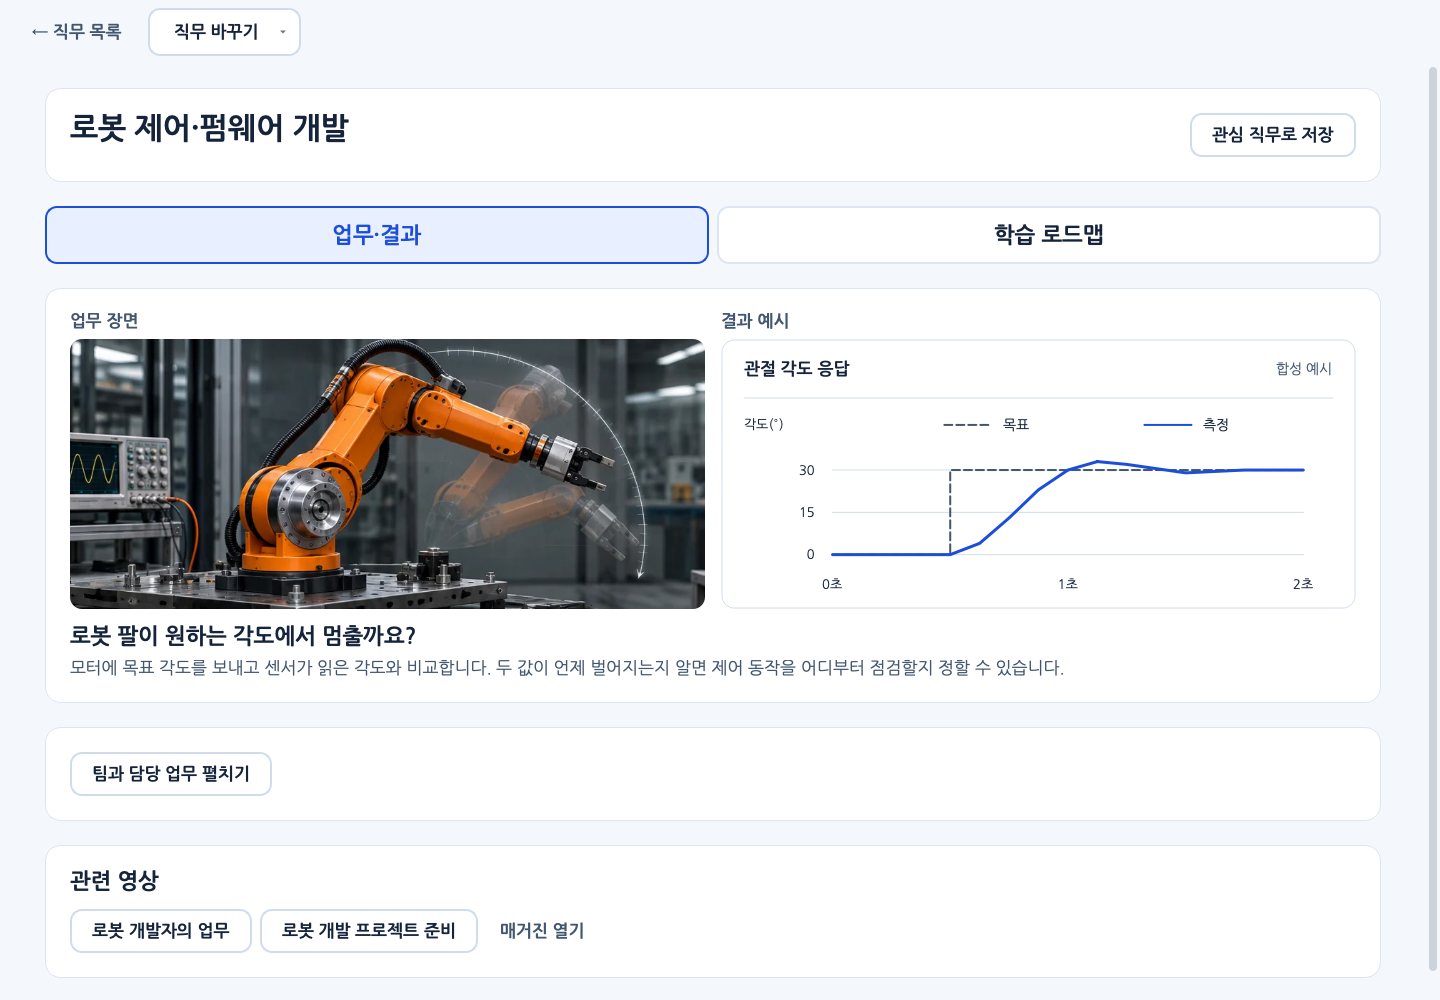
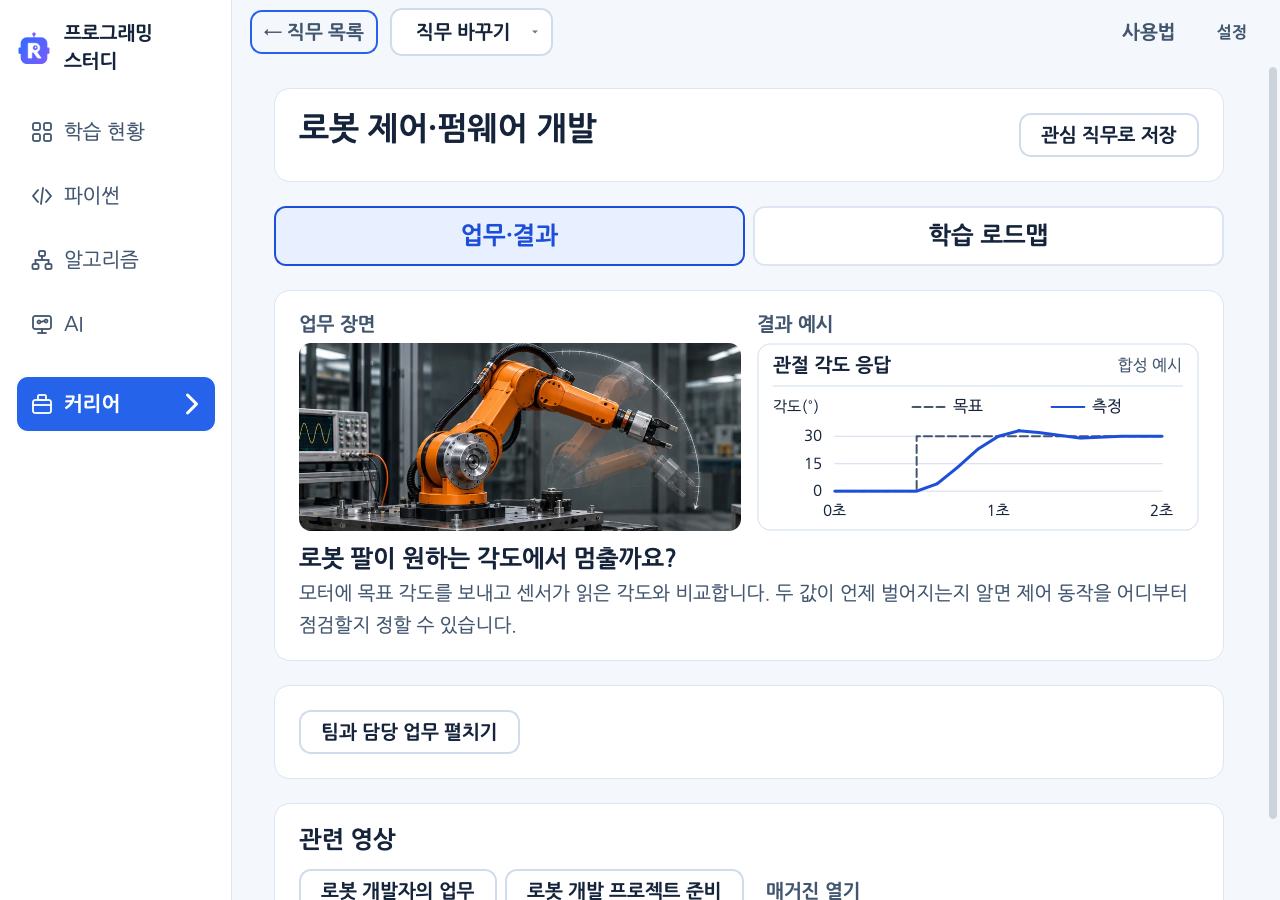
fix(ui): 설정을 화면 상단 오른쪽으로 통일 (#267)
* fix(ui): 설정을 화면 상단 오른쪽으로 통일

* test(ui): 상단 설정을 포함한 키보드 순서 확인

* test(ui): 글자 확대 뒤 과목 카드 배치 갱신 대기

* test(ui): 과목 카드의 안정된 두 열 배치 확인

diff --git a/tests/test_gui_design_system.py b/tests/test_gui_design_system.py
@@ -5,7 +5,8 @@ from pathlib import Path
 from unittest import mock
 
 from tests import guikit, test_gui_hub
-from PyQt6.QtCore import QPoint
+from PyQt6.QtCore import QPoint, Qt
+from PyQt6.QtTest import QTest
 from gui import theme
 from gui.career_roadmap import OrganisationGuide
 from gui.career_learning_path import CareerLearningPath
@@ -83,38 +84,74 @@ class DesignSystemTest(test_gui_hub.HubTest):
     def test_settings_reuse_actions_across_subject_and_career_overviews(self):
         win = self.boot()
         before = copy.deepcopy(win.session.prof)
-        for move in (win.go_home, win.go_ai, win.go_career, win.go_magazine):
+        for move in (win.go_hub, win.go_home, win.go_journey, win.go_ai,
+                     lambda: win.open_ai_lesson("i90"), win.go_career, win.go_magazine):
             move()
             guikit.wait_until(lambda: win.job is None)
             guikit.pump()
-            for mode, size in zip(("light", "dark"), self.window_sizes(win)):
+            for mode, size in ((mode, size) for mode in ("light", "dark") for size in self.window_sizes(win)):
                 win.set_theme(mode)
                 win.set_text("larger")
                 win.resize(*size)
                 guikit.pump()
                 workspace = win.workspace
-                index = 0 if workspace.rail.isVisible() else 1
-                trigger = (workspace.rail_settings, workspace.compact_settings)[index]
+                page = win.pages.currentWidget()
+                trigger = page.settings_btn
+                if page is win.journey_map:
+                    page.show_cache({"bytes": 10 * 1024 * 1024})
+                    guikit.pump()
+                if page.top.back is not None:
+                    win.activateWindow()
+                    guikit.pump()
+                    page.top.back.setFocus()
+                    self.assertTrue(page.top.back.hasFocus(), (type(page).__name__, page.top.back.isEnabled()))
+                    for _ in range(20):
+                        focused = guikit.APP.focusWidget()
+                        if focused is trigger:
+                            break
+                        self.assertIsNotNone(focused)
+                        self.assertTrue(page.top.isAncestorOf(focused), (type(page).__name__, mode, size, focused, trigger.isEnabled(), trigger.isVisible()))
+                        QTest.keyClick(focused, Qt.Key.Key_Tab)
+                    self.assertTrue(trigger.hasFocus())
                 self.assertTrue(trigger.isVisible())
                 self.assertGreaterEqual(trigger.width(), trigger.sizeHint().width())
                 guikit.click(trigger)
-                menu = workspace.settings_menus[index]
+                menu = page.settings_panel
+                self.assertIs(trigger.parentWidget(), page.top.controls if page is win.hub else page.top)
+                rect = trigger.rect().translated(trigger.mapTo(page.top, QPoint()))
+                self.assertTrue(page.top.rect().contains(rect), (page, rect, page.top.rect()))
+                self.assertLessEqual(abs(page.top.width() - rect.right() - 1 - (kit.MARGIN - kit.FLUSH)), 1)
+                self.assertEqual(trigger.sizeHint().height(), win.hub.settings_btn.sizeHint().height())
+                # 같은 막대의 기존 도구를 밀어 가리거나 겹치지 않는지 확인함.
+                siblings = []
+                for sibling in page.top.findChildren(type(trigger)):
+                    if sibling is trigger or not sibling.isVisible():
+                        continue
+                    other = sibling.rect().translated(sibling.mapTo(page.top, QPoint()))
+                    self.assertTrue(page.top.rect().contains(other), (sibling.text(), other, page.top.rect()))
+                    self.assertGreaterEqual(sibling.width(), sibling.sizeHint().width(), sibling.text())
+                    self.assertFalse(rect.intersects(other), (trigger.text(), sibling.text()))
+                    for seen in siblings:
+                        self.assertFalse(seen.intersects(other), sibling.text())
+                    siblings.append(other)
+                if page.top.title.isVisible():
+                    self.assertGreater(page.top.title.width(), 0)
                 self.assertTrue(menu.isVisible())
                 self.assertEqual([b.text() for b in menu.actions], [b.text() for b in win.hub.settings_panel.actions])
                 self.assertTrue(menu.screen().availableGeometry().contains(menu.geometry()))
                 destination = os.environ.get("STUDY_UI_ARTIFACT_DIR")
-                if destination and move == win.go_magazine:
+                if destination:
                     target = Path(destination)
                     target.mkdir(parents=True, exist_ok=True)
-                    self.assertTrue(win.grab().save(str(target / f"workspace-settings-{mode}.png")))
-                    self.assertTrue(menu.grab().save(str(target / f"workspace-settings-popup-{mode}.png")))
+                    self.assertTrue(win.grab().save(str(target / f"workspace-settings-{win.area}-{type(page).__name__}-{mode}-{win.width()}.png")))
+                    self.assertTrue(menu.grab().save(str(target / f"workspace-settings-popup-{win.area}-{type(page).__name__}-{mode}-{win.width()}.png")))
                 menu.dismiss(immediate=True)
                 guikit.pump()
+                self.assertTrue(trigger.hasFocus(), (type(page).__name__, mode, size, guikit.APP.activePopupWidget(), guikit.APP.activeModalWidget(), guikit.APP.focusWidget()))
         self.assertEqual(before, win.session.prof)
         win.go_hub()
         guikit.pump()
-        self.assertFalse(win.workspace.compact_settings.isVisible())
-        self.assertFalse(win.workspace.rail_settings.isVisible())
+        self.assertEqual(sum(menu.trigger.isVisible() for menu in win.workspace.settings_menus), 0)
         self.assertTrue(win.hub.settings_btn.isVisible())
 
     def test_settings_cancel_pending_actions_on_navigation_and_lock_during_jobs(self):
@@ -122,7 +159,7 @@ class DesignSystemTest(test_gui_hub.HubTest):
         win.go_home()
         guikit.pump()
         workspace = win.workspace
-        menu = workspace.settings_menus[0 if workspace.rail.isVisible() else 1]
+        menu = win.home.settings_panel
         menu.open_menu()
         callback = mock.Mock()
         menu.dismiss(after=callback, immediate=True)
@@ -160,7 +197,7 @@ class DesignSystemTest(test_gui_hub.HubTest):
         win = self.boot()
         win.go_ai()
         guikit.pump()
-        menu = win.workspace.settings_menus[1]
+        menu = win.ai_home.settings_panel
         seen = []
         with mock.patch.object(win, "show_hub_tour", side_effect=lambda **kw: seen.append((win.pages.currentWidget(), kw))):
             menu.show_first_tour()

diff --git a/gui/workspace.py b/gui/workspace.py
@@ -246,11 +246,6 @@ class Workspace(QWidget):
         brand_row.addWidget(mark)
         brand_row.addSpacing(12)
         brand_row.addWidget(kit.para("프로그래밍\n스터디", "label", bold=True), 1)
-        self.rail_settings = kit.button("설정", "text", "s")
-        policy = self.rail_settings.sizePolicy()
-        policy.setRetainSizeWhenHidden(True)
-        self.rail_settings.setSizePolicy(policy)
-        brand_row.addWidget(self.rail_settings)
         nav.addWidget(brand)
         nav.addSpacing(24)
         self.buttons = {}
@@ -284,8 +279,6 @@ class Workspace(QWidget):
         self.compact_row = QWidget()
         compact_layout = kit.box(self.compact_row, spacing=theme.GAP["detail"], horizontal=True)
         compact_layout.addWidget(self.compact, 1)
-        self.compact_settings = kit.button("설정", "text", "m")
-        compact_layout.addWidget(self.compact_settings)
         box.addWidget(self.compact_row)
         box.addWidget(pages, 1)
         self.submissions = SubmissionBar(win)
@@ -306,13 +299,25 @@ class Workspace(QWidget):
         self.body.installEventFilter(self)
         QApplication.instance().focusChanged.connect(self.reveal_focus)
         outer.addWidget(self.body, 1)
-        self.settings_menus = tuple(SettingsMenu(self, trigger)
-                                    for trigger in (self.rail_settings, self.compact_settings))
-        for trigger in (self.rail_settings, self.compact_settings):
-            trigger.setToolTip("글자 크기·테마·업데이트·사용법·문의")
+        self.settings_menus = []
+        for page in self.overview_pages:
+            if page is not win.hub:
+                self.add_settings(page)
         pages.currentChanged.connect(self.close_settings)
         pages.currentChanged.connect(self.refresh)
         self.refresh()
+
+    def add_settings(self, page):
+        """과목·커리어 화면의 같은 상단 막대 오른쪽 끝에 설정을 붙임."""
+        controls = [widget for widget in page.top.findChildren(QWidget)
+                    if widget.focusPolicy() & Qt.FocusPolicy.TabFocus]
+        page.settings_btn = kit.button("설정", "text", "s", onbg=True)
+        page.settings_btn.setToolTip("글자 크기·테마·업데이트·사용법·문의")
+        page.top.add_right(page.settings_btn, flush=True)
+        for previous, following in zip(controls, [*controls[1:], page.settings_btn]):
+            QWidget.setTabOrder(previous, following)
+        page.settings_panel = SettingsMenu(self, page.settings_btn)
+        self.settings_menus.append(page.settings_panel)
 
     def minimumSizeHint(self):
         """넓은 창의 이동 목록 때문에 좁은 배치로 줄일 수 없게 되는 것을 막음."""
@@ -362,9 +367,6 @@ class Workspace(QWidget):
         self.rail.setFixedWidth(rail_width)
         breakpoint = max(1120, rail_width + 760)
         show_navigation = self.win.session is not None and self.pages.currentWidget() in self.overview_pages
-        outside_hub = self.pages.currentWidget() is not self.win.hub
-        self.rail_settings.setVisible(outside_hub)
-        self.compact_settings.setVisible(outside_hub)
         rail_fits = self.width() >= breakpoint and self.height() >= self.rail.minimumSizeHint().height()
         self.rail.setVisible(show_navigation and rail_fits)
         self.compact_row.setVisible(show_navigation and not rail_fits)
@@ -382,8 +384,8 @@ class Workspace(QWidget):
         busy = self.win.job is not None or self.win.pending_close or self.win.close_pending
         self.rail.setEnabled(not busy)
         self.compact.setEnabled(not busy)
-        self.compact_settings.setEnabled(not busy)
         for menu in self.settings_menus:
+            menu.trigger.setEnabled(not busy)
             menu.refresh_actions(busy)
         usable = started and self.pages.currentWidget() in self.submission_pages and self.win.gitflow is not None
         allowed = self.win.has_submission_consent()

diff --git a/tests/test_gui_hub.py b/tests/test_gui_hub.py
@@ -490,9 +490,28 @@ class HubScreenTest(HubTest):
         self.assertEqual(len(set(metrics)), 1)
         win.set_text("larger")
         guikit.pump()
+        initial = (grid.geometry().getRect(), [row.geometry().getRect() for row in grid.rows])
+        # 자식과 부모 배치가 연속 이벤트 처리에서도 같은 크기를 유지하는지 확인함.
+        previous, repeats = None, 0
+
+        def stable_grid():
+            nonlocal previous, repeats
+            current = (grid.geometry().getRect(), [row.geometry().getRect() for row in grid.rows])
+            fits = grid.columns == 2 and all(grid.rect().contains(row.geometry()) for row in grid.rows)
+            repeats = repeats + 1 if fits and current == previous else 0
+            previous = current
+            return repeats >= 3
+
+        guikit.wait_until(stable_grid, timeout=5)
+        settled = (grid.geometry().getRect(), [row.geometry().getRect() for row in grid.rows])
+        if initial != settled:
+            print("SubjectGrid layout after font update:", initial, "->", settled)
         self.assertEqual(grid.columns, 2)
-        for row in grid.rows:
-            self.assertTrue(grid.rect().contains(row.geometry()))
+        for index, row in enumerate(grid.rows):
+            self.assertEqual(grid.grid.getItemPosition(grid.grid.indexOf(row))[:2], (index // 2, index % 2))
+            self.assertTrue(grid.rect().contains(row.geometry()), (initial, settled))
+            for other in grid.rows[:index]:
+                self.assertFalse(row.geometry().intersects(other.geometry()))
         guikit.click(win.hub.ai_row)
         self.assertEqual(win.area, "ai")
 

diff --git a/tests/test_gui_section_browser.py b/tests/test_gui_section_browser.py
@@ -33,11 +33,16 @@ class AiSectionBrowserTest(AiTest):
         self.assertIs(home.hub_btn, home.top.back)
         home.hub_btn.setFocus()
         QTest.keyClick(home.hub_btn, Qt.Key.Key_Tab)
+        self.assertTrue(home.settings_btn.hasFocus())
+        QTest.keyClick(home.settings_btn, Qt.Key.Key_Tab)
         self.assertTrue(home.course_tabs.buttons[1].isChecked())
         self.assertTrue(home.course_tabs.buttons[1].hasFocus())
         QTest.keyClick(home.course_tabs.buttons[1], Qt.Key.Key_Tab, Qt.KeyboardModifier.ShiftModifier)
+        self.assertTrue(home.settings_btn.hasFocus())
+        QTest.keyClick(home.settings_btn, Qt.Key.Key_Tab, Qt.KeyboardModifier.ShiftModifier)
         self.assertTrue(home.hub_btn.hasFocus())
         QTest.keyClick(home.hub_btn, Qt.Key.Key_Tab)
+        QTest.keyClick(home.settings_btn, Qt.Key.Key_Tab)
         self.assertTrue(home.course_tabs.buttons[1].hasFocus())
         self.assertFalse(browser.isAncestorOf(home.hub_btn))
         destination = os.environ.get("STUDY_UI_ARTIFACT_DIR")
@@ -118,6 +123,8 @@ class AiSectionBrowserTest(AiTest):
                     self.settle()
                     back.setFocus()
                     QTest.keyClick(back, Qt.Key.Key_Tab)
+                    self.assertTrue(home.settings_btn.hasFocus())
+                    QTest.keyClick(home.settings_btn, Qt.Key.Key_Tab)
                     self.assertTrue(home.course_tabs.buttons[0].hasFocus())
                     if destination:
                         target = Path(destination)

diff --git a/gui/ai_home.py b/gui/ai_home.py
@@ -124,7 +124,10 @@ class AiHomePage(QWidget):
         self.browser.begin_refresh((self.win.user, course))
         course_index = 1 if course == "app" else 0
         self.course_tabs.set_current(course_index)
-        QWidget.setTabOrder(self.hub_btn, self.course_tabs.buttons[course_index])
+        anchor = getattr(self, "settings_btn", self.hub_btn)
+        if anchor is not self.hub_btn:
+            QWidget.setTabOrder(self.hub_btn, anchor)
+        QWidget.setTabOrder(anchor, self.course_tabs.buttons[course_index])
         self.course_intro.setText("AI 응용 · 이미지를 준비하고 분류·검출에 연결합니다. 자료는 확인을 마친 단원부터 공개합니다." if course == "app" else
                                   "AI 개론 · 데이터와 모델, 손실과 기울기를 연결해 학습 원리를 익힙니다.")
         try:
@@ -359,6 +362,7 @@ class AiLessonPage(QWidget):
         outer = kit.box(self)
         self.top = kit.TopBar("← AI 비전 개론", "")
         self.back_btn, self.title = self.top.back, self.top.title
+        self.top.row.addStretch(1)
         self.note_btn = self.top.add_right(kit.button("전체 노트", "text", "s"))
         self.memo_btn = self.top.add_right(kit.button("복습 질문", "text", "s"), flush=True)
         self.note_btn.setToolTip("이 차시의 모든 단원을 정답을 편 채로 다시 읽습니다. 다시 읽기는 복습 확인 기록으로 세지 않습니다.")

diff --git a/gui/journey_map.py b/gui/journey_map.py
@@ -534,7 +534,7 @@ class JourneyMapPage(QWidget):
         self.cache_size = info["bytes"]
         self.clear_cache_btn.setVisible(shown)
         left, top, _, bottom = self.top.row.getContentsMargins()
-        self.top.row.setContentsMargins(left, top, kit.MARGIN - kit.FLUSH if shown else kit.MARGIN, bottom)
+        self.top.row.setContentsMargins(left, top, kit.MARGIN - kit.FLUSH if shown or hasattr(self, "settings_btn") else kit.MARGIN, bottom)
 
     def show_dungeon(self, did):
         """오른쪽 구역에 던전 did 의 보조 줄, 문제 목록, 소개를 보여 줌."""

diff --git a/gui/career_controller.py b/gui/career_controller.py
@@ -34,6 +34,7 @@ class CareerController:
         page.tour_help.setToolTip("이 화면의 버튼 위치와 사용 순서를 다시 안내합니다.")
         page.tour_help.clicked.connect(lambda: self.queue_tour(page, replay=True))
         page.top.row.addWidget(page.tour_help)
+        self.win.workspace.add_settings(page)
         page.busy_changed.connect(lambda busy: self.dismiss_tour() if busy else self.queue_tour(page))
         return page
 

diff --git a/gui/home_page.py b/gui/home_page.py
@@ -27,7 +27,7 @@ class HomePage(QWidget):
         kit.page(self)
         self.win = win
         outer = kit.box(self)
-        top = kit.TopBar("학습 현황", "파이썬 스터디")
+        self.top = top = kit.TopBar("학습 현황", "파이썬 스터디")
         self.hub_btn = top.back
         self.wrong_btn = top.add_right(kit.button("오답 노트", "text"))
         self.theme_btn = top.add_right(kit.button("", "text"))

diff --git a/docs/CHANGE_IMPACT.md b/docs/CHANGE_IMPACT.md
@@ -68,7 +68,7 @@ flowchart TD
 | 공통 색·선택 사이드바·`NextCard` | 두 테마의 대비, 보조 버튼 외곽선, 선택·비활성·초점, 제목 확대·줄바꿈, 다음 행동 신호 | 공통 버튼 스타일이 선택 면을 덮거나 커진 제목이 행동 버튼을 밀어낼 수 있습니다. 파란 선택 면과 흰 글자·아이콘, 파랑·청록 카드의 글자 대비를 확인합니다. 창·글자 크기 전환 뒤에도 같은 대상의 행동이 한 번만 실행되는지 대조합니다. |
 | Hub 오답·최근 7일 학습 카드 | `DashboardRow`, 카드 최소 폭과 본문 글자 크기, 1:2 두 열·세로 순서, 최근 채점 숨김·오답 이동 | 창 너비만으로 전환하면 긴 문구나 큰 글자가 카드 밖으로 나갈 수 있습니다. 카드 필요 폭과 24px 간격을 기준으로 두 열·한 열을 왕복하며 제목·차트·최근 목록을 대조합니다. 카드 재배치로 과목별 집계나 오답 연결을 바꾸지 않습니다. |
 | `ActionLayout` 공유 | `DialogLayout`, `BottomBar`, `SubmissionBar`, 로드맵 확대창, 표시·숨김·비활성·문구 변경 | 기존 소비자와 새 소비자의 여백·도구 간격·행동 순서가 달라질 수 있습니다. 표시 중인 항목의 폭·줄 높이만 공유하고 기능·동의·채점·전송 조건은 호출부에 남깁니다. |
-| 공통 설정 진입 | `Workspace.overview_pages`, `SettingsMenu`, Hub 중복 숨김, 탐색란·좁은 메뉴의 앵커, 공통 `refresh_actions` 잠금 | 홈·과목 홈·차시 목록·커리어 동적 페이지에만 추가합니다. 학습 본문·시험·코딩 작업에는 새 진입을 만들지 않습니다. 화면 이동이나 앵커 숨김 뒤 대기 동작이 실행될 수 있으므로 팝업과 예약 동작을 함께 취소합니다. 첫 화면 튜토리얼은 Hub로 이동한 뒤 재생하고 커리어 안내는 기존 직무 목록 진입을 유지합니다. |
+| 공통 설정 진입 | `Workspace.overview_pages`, `SettingsMenu`, Hub 기존 버튼, 각 화면 상단 막대 오른쪽 끝 앵커, 공통 `refresh_actions` 잠금 | 홈·과목 홈·차시 목록·커리어 동적 페이지에만 추가합니다. 작은 창·최대 글자에서도 상단 오른쪽 위치와 이웃 버튼의 표시·정렬을 함께 확인합니다. 학습 본문·시험·코딩 작업에는 새 진입을 만들지 않습니다. 화면 이동이나 앵커 숨김 뒤 대기 동작이 실행될 수 있으므로 팝업과 예약 동작을 함께 취소합니다. 첫 화면 튜토리얼은 Hub로 이동한 뒤 재생하고 커리어 안내는 기존 직무 목록 진입을 유지합니다. |
 | 상단·고정 하단·현재 작업의 배치 | `Workspace`, `TopBar`, 학습 하단, 조건부 제출 안내, 과정·분류 탭 | 고정 영역을 늘려 본문과 초점 요소를 가리거나 제출 안내를 학습 진행과 혼동할 수 있습니다. 각 영역의 목적과 기존 표시 조건을 유지하고 숨김·줄바꿈 전후의 본문 가용 높이를 확인합니다. |
 | 비동기 표시와 배치 갱신 | 현재 학습자·과정·문항·요청, 취소·닫기·권한 변경, 수동 스크롤 | 늦은 응답이 다른 대상의 입력을 덮거나 취소한 창을 다시 열 수 있습니다. 같은 대기 상태는 버튼·초점을 반복 변경하지 않으며 복원 예약보다 사용자의 새 이동을 우선합니다. |
 | 화면 등록과 허용 목록 | `overview_pages`, `submission_pages`, 커리어 지연 생성, 설정 앵커, 본문 끝 여백 | 탐색을 허용한 화면에 제출 알림이나 전송 권한까지 붙일 수 있습니다. 커리어 동적 등록과 제출 허용 목록은 별도로 유지하고 새 설정 진입도 확정한 목록만 따릅니다. |

diff --git a/docs/UI_DESIGN.md b/docs/UI_DESIGN.md
@@ -59,13 +59,13 @@ AI 홈의 과정 선택은 같은 폭의 둥근 테두리와 배경으로 표시
 
 돌아가기 버튼을 담는 `TopBar`는 페이지 루트에서 본문 스크롤 밖에 두고 페이지 전체 폭을 사용합니다. 콘텐츠 열의 최대 폭 안에 넣지 않으며 공통 높이와 가장자리 여백을 따릅니다. 과정·분류 선택은 그 아래 콘텐츠 열에 두고 목록을 내려도 선택 위치를 유지합니다.
 
-공통 설정은 `Workspace.overview_pages`의 홈·과목 홈·차시 목록·커리어 동적 페이지에서 엽니다. 넓은 창은 왼쪽 메뉴의 프로그램 이름 옆, 좁은 창은 메뉴 선택란 오른쪽에 둡니다. Hub는 기존 설정 위치만 사용하고 공통 버튼은 숨깁니다. 같은 `SettingsMenu` 클래스를 사용하며 학습 본문·시험·코딩 작업 화면에는 새 진입을 추가하지 않습니다.
+공통 설정은 `Workspace.overview_pages`의 홈·과목 홈·차시 목록·커리어 동적 페이지에서 엽니다. 모든 화면에서 본문 상단 막대의 오른쪽 끝에 둡니다. 넓은 창의 왼쪽 메뉴와 좁은 창의 메뉴 선택란에는 설정을 넣지 않습니다. Hub는 기존 오른쪽 상단 버튼을 사용하고 나머지는 `Workspace.add_settings()`로 같은 크기의 버튼을 붙입니다. 같은 `SettingsMenu` 클래스를 사용하며 학습 본문·시험·코딩 작업 화면에는 새 진입을 추가하지 않습니다.
 
 설정의 표시 위치와 기능 허용 조건은 함께 적용합니다. 공통 메뉴가 생겨도 본인 확인·동의·제출·업데이트의 기존 정책을 넓히지 않습니다.
 
 | 동작 | 허용할 화면과 시점 | 기능·동의 계약 | 초점·닫기 계약 |
 | --- | --- | --- | --- |
-| 설정 열기 | `overview_pages`에서 현재 보이는 공통 버튼, Hub에서는 기존 버튼 | 학습 본문·시험·코딩 작업에 새 버튼을 추가하지 않습니다. 계정 전환·시험 시간·입력 정책을 바꾸지 않습니다. | 키보드로 열고 닫으면 해당 버튼으로 돌아갑니다. 화면을 옮기거나 창을 좁혀 앵커가 숨으면 메뉴와 대기 동작을 취소합니다. |
+| 설정 열기 | `overview_pages`에서 현재 화면의 상단 막대 오른쪽 끝 버튼 | 학습 본문·시험·코딩 작업에 새 버튼을 추가하지 않습니다. 계정 전환·시험 시간·입력 정책을 바꾸지 않습니다. | 키보드로 열고 닫으면 해당 버튼으로 돌아갑니다. 화면을 옮기거나 창을 좁혀 앵커가 숨으면 메뉴와 대기 동작을 취소합니다. |
 | 글자·테마 선택 | 열린 설정에서 기존 변경 함수를 호출 | 선택·답안·편집 버퍼·읽던 위치를 유지합니다. 설정 변경을 동의나 학습 완료로 기록하지 않습니다. | 배치가 안정된 뒤 위치를 복원합니다. 숨은 앵커로 초점을 보내지 않습니다. |
 | 본인 확인·업데이트 확인 | 기존 `refresh_actions`가 허용한 시점 | 실행 작업·제출·종료 대기 등의 공통 잠금을 적용합니다. 재확인을 동의로 간주하거나 확인 동작만으로 파일을 갱신하지 않습니다. | 메뉴를 닫은 뒤 한 번만 실행합니다. 화면 이동·닫기 뒤 예약한 동작은 취소합니다. |
 | 튜토리얼 다시 보기 | 공통 잠금이 풀린 뒤 첫 화면 안내는 Hub, 커리어 안내는 직무 목록에서 재생 | 기존 완료 기록과 다시 보기 기능을 사용합니다. 학습·시험의 입력을 우회해 이동하지 않습니다. | 재생 요청에 따른 이동과 외부 화면 이동에 따른 취소를 구분하며 오래된 메뉴 동작이 다른 화면에서 실행되지 않게 합니다. |
